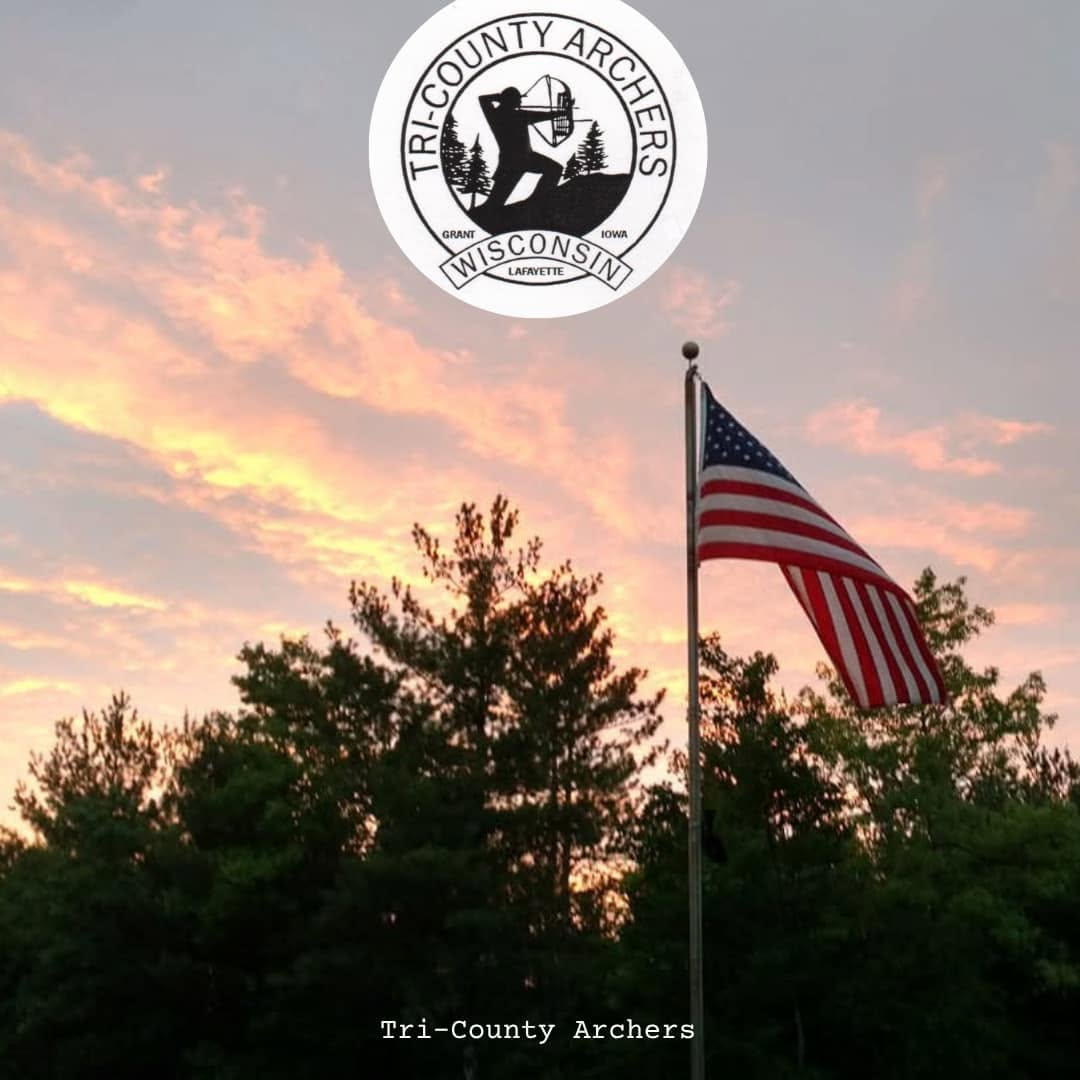
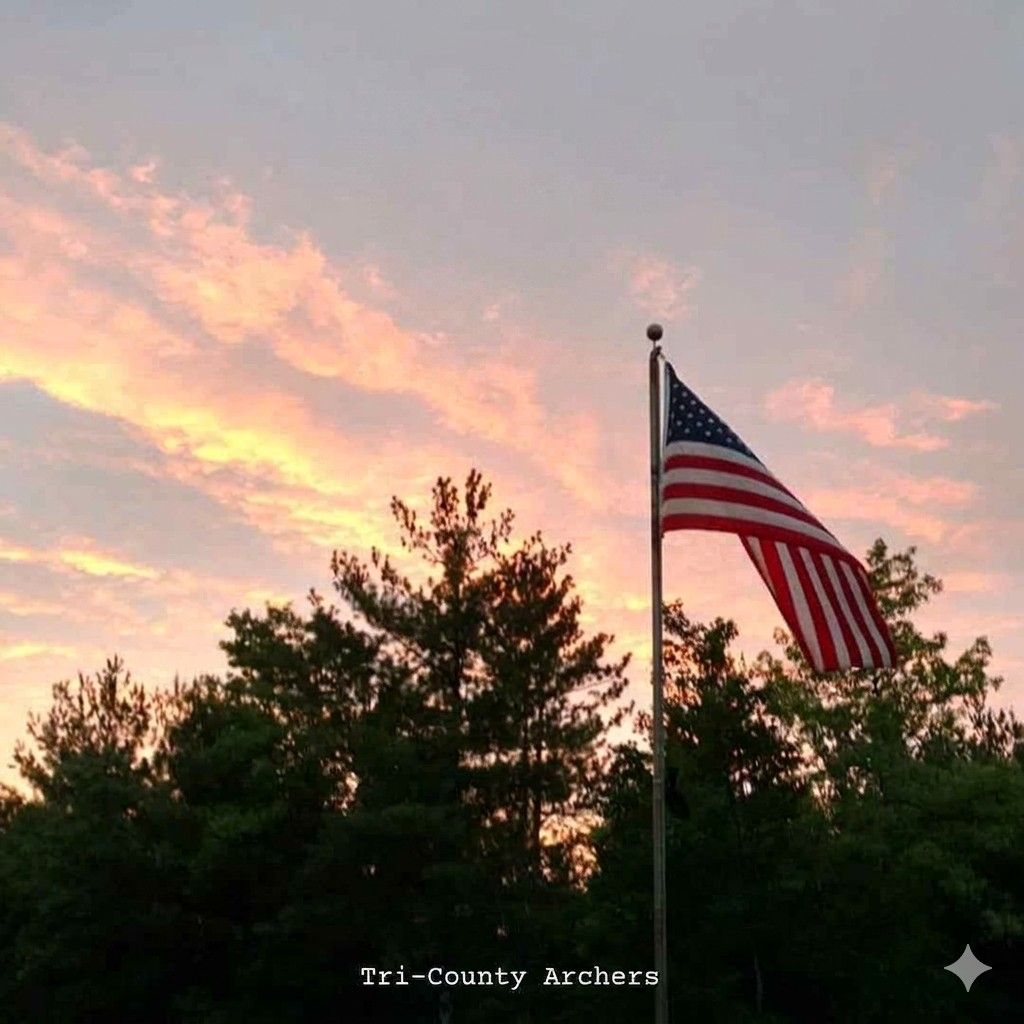
Update sponsorship drafts, contests copy, and membership dues table layout

diff --git a/sponsors.html b/sponsors.html
@@ -66,6 +66,74 @@
       banquet that fills the hall.</p>
     <div class="grid g3" id="tiers" style="margin:26px 0 34px"></div>
 
+    <!-- IDEAS (temporary working block — remove before launch) -->
+    <div style="margin:6px 0 34px; padding:20px 22px; background:#FFF8E8; border:2px dashed #C08A16; border-radius:14px">
+      <p style="margin:0 0 16px; color:#6B5111; font-size:.92rem">
+        <strong style="color:#4E3A08">Working ideas — not published yet.</strong> A scratch list of
+        sponsorship mechanisms for the board to sort through, on top of the recommended tiers above.
+        Keep, drop or rework these before any of it goes to a business.
+        <span class="tbd">internal — remove before launch</span></p>
+
+      <div class="grid g2">
+        <div class="card card-pad">
+          <h3>Placement &amp; signage</h3>
+          <ul class="tick" style="margin-bottom:0">
+            <li><strong>Sponsor a target</strong> — a sign or plaque at a specific target on the 3D
+              course carrying the sponsor's name, renewed each year</li>
+            <li><strong>Title a shoot</strong> — "Brush Shoot, presented by ___" on the banner, the
+              schedule and the posts</li>
+            <li><strong>Year-round clubhouse banner</strong> for top-tier sponsors, not just on shoot days</li>
+            <li><strong>QR code on target and course signs</strong> pointing straight to the sponsor's site</li>
+          </ul>
+        </div>
+        <div class="card card-pad">
+          <h3>Branded keepsakes</h3>
+          <p class="small muted" style="margin-top:0">Co-branded with the club logo — something people
+            keep, so the sponsor's name travels with it.</p>
+          <ul class="tick" style="margin-bottom:0">
+            <li>T-shirts</li>
+            <li>Can coozies</li>
+            <li>Branded poker chips</li>
+            <li>Challenge coins</li>
+            <li>Hats, stickers or patches as lower-cost options</li>
+          </ul>
+        </div>
+      </div>
+
+      <div class="grid g2" style="margin-top:16px">
+        <div class="card card-pad">
+          <h3>Raffle &amp; prizes</h3>
+          <ul class="tick" style="margin-bottom:0">
+            <li><strong>Donate raffle items</strong> for the banquet — the club leans on this, so make
+              it an easy, clearly recognized way in</li>
+            <li>Signage on each raffle prize crediting the business that donated it</li>
+            <li><strong>Back a contest payout or trophy</strong> — Big Buck or Fall Turkey named for the
+              sponsor</li>
+          </ul>
+        </div>
+        <div class="card card-pad">
+          <h3>Community &amp; youth</h3>
+          <ul class="tick" style="margin-bottom:0">
+            <li>Back the <strong>Grant County 4-H</strong> program or its equipment and get credited for it</li>
+            <li>Sponsor a <strong>league season</strong> — name on the standings and the league posts</li>
+          </ul>
+        </div>
+      </div>
+
+      <div class="grid g2" style="margin-top:16px">
+        <div class="card card-pad">
+          <h3>In-kind &amp; flexible</h3>
+          <ul class="tick" style="margin-bottom:0">
+            <li><strong>Count an in-kind donation toward a tier</strong> — a donated $500 bow could
+              qualify a business for Bullseye, or whatever tier the value matches</li>
+            <li>Recognize <strong>in-kind help</strong> — materials, food, printing — the same as a cash sponsor</li>
+            <li>Let sponsors <strong>pick their channel</strong> — signage, keepsakes or raffle — for the
+              same tier price</li>
+          </ul>
+        </div>
+      </div>
+    </div>
+
     <div class="grid g2">
       <div class="call call-forest">
         <h3>What sponsors get out of it</h3>

diff --git a/assets/js/data.js b/assets/js/data.js
@@ -423,18 +423,19 @@ const DUES = [
 const SPONSOR_TIERS = [
   { name:"Bullseye — $500", perks:[
       "Banner at the Brush Shoot and both outdoor 3D shoots",
-      "Raffle recognition at the annual banquet",
-      "Logo on the website homepage and sponsors page",
-      "Recognition from the podium at the banquet"
+      "Named in the shoot-result posts on Facebook, Instagram and this website",
+      "Clickable logo on the website homepage and sponsors page",
+      "Called out with the raffle at the annual banquet"
     ], guess:true },
   { name:"Gold — $250", perks:[
       "Banner at both outdoor 3D shoots",
-      "Raffle recognition at the annual banquet",
-      "Logo on the sponsors page"
+      "Named in the shoot-result posts on Facebook, Instagram and this website",
+      "Logo on the sponsors page",
+      "Raffle recognition at the annual banquet"
     ], guess:true },
   { name:"Supporting — $100", perks:[
       "Name on the sponsors page",
-      "Name listed at the banquet",
-      "Sign at the food stand"
+      "Name listed with the banquet raffle",
+      "Shout-out in a season sponsor-thanks post"
     ], guess:true }
 ];

diff --git a/contests.html b/contests.html
@@ -55,24 +55,6 @@
       than living and dying in a Facebook post.
     </div>
 
-    <div class="grid g2" style="margin-top:38px">
-      <div class="card card-pad">
-        <h3>What we still need to publish</h3>
-        <ul class="tick" style="margin-bottom:0">
-          <li>Entry deadline for each contest, and who collects the money</li>
-          <li>How Big Buck is scored &mdash; gross, net, typical vs. non-typical? <span class="tbd">needed</span></li>
-          <li>When the pot gets paid out &mdash; at the banquet, or at the end of each season? <span class="tbd">needed</span></li>
-          <li>How an entry gets registered and verified</li>
-        </ul>
-      </div>
-      <div class="card card-pad">
-        <h3>Past winners</h3>
-        <p>Winners will be listed here by year once the club has the records together &mdash; it's the
-          kind of page people come back to.</p>
-        <p class="small muted" style="margin-bottom:0">Send whatever list exists, however rough.
-          <span class="tbd">needs past winners</span></p>
-      </div>
-    </div>
   </div>
 </section>
 

diff --git a/assets/js/site.js b/assets/js/site.js
@@ -147,7 +147,6 @@
     el.innerHTML = '<div class="wrap">' + CLUB.alert.text + '</div>';
   }
 
-  /* ---------- homepage: What's Next ---------- */
   /* The league card is the one that needs thinking about: because members
      can shoot their score any day of the week, what matters is which week
      of the season we're in, not which night it is. */
@@ -469,9 +468,8 @@
     if (!el) return;
     el.innerHTML = DUES.map(function (d) {
       return '<tr>'
-        + '<td data-l="Level"><span class="ev-name">' + d.level + '</span>' + tags(d) + '</td>'
-        + '<td data-l="Dues" class="num"><strong>' + d.price + '</strong></td>'
-        + '<td data-l="Work hours" class="num">' + d.hours + '</td>'
+        + '<td data-l="Level" class="center"><span class="ev-name">' + d.level + '</span>' + tags(d) + '</td>'
+        + '<td data-l="Dues" class="center"><strong>' + d.price + '</strong></td>'
         + '<td data-l="Notes">' + d.notes + '</td>'
         + '</tr>';
     }).join('');

diff --git a/assets/css/site.css b/assets/css/site.css
@@ -247,6 +247,7 @@ table.t th{
   padding:13px 14px; font-weight:700; white-space:nowrap;
 }
 table.t td{padding:13px 14px; border-top:1px solid var(--line); vertical-align:top}
+table.t th.center, table.t td.center{text-align:center}
 table.t tbody tr:hover{background:#FBF9F5}
 table.t .ev-name{font-weight:700; color:var(--ink)}
 table.t .num{text-align:right; font-variant-numeric:tabular-nums; white-space:nowrap}
@@ -265,6 +266,7 @@ table.t tr.rank3 td:first-child::before{content:'🥉 '}
     margin-bottom:13px; padding:6px 0;
   }
   table.t.stack td{border:0; padding:6px 16px; text-align:left !important}
+  table.t.stack td.center{text-align:center !important}
   table.t.stack td::before{
     content:attr(data-l); display:block; font-size:.64rem; font-weight:700;
     letter-spacing:.14em; text-transform:uppercase; color:var(--brown-light); margin-bottom:2px;

diff --git a/index.html b/index.html
@@ -33,7 +33,7 @@
 <div id="alert"></div>
 
 <section class="hero">
-  <div class="hero-bg" style="background-image:url('assets/img/dino-3d-target.jpg')"></div>
+  <div class="hero-bg" style="background-image:url('assets/img/flag-sunset.jpg')"></div>
   <div class="hero-in">
     <div class="hero-eyebrow">Platteville, Wisconsin · Est. <span data-club="founded">1937</span></div>
     <h1>Forty targets<br>in the timber.</h1>

diff --git a/membership.html b/membership.html
@@ -60,7 +60,7 @@
       January through December.</p>
     <div class="tbl-wrap">
       <table class="t stack">
-        <thead><tr><th>Level</th><th class="num">Dues / year</th><th class="num">Work hours</th><th>Notes</th></tr></thead>
+        <thead><tr><th class="center">Level</th><th class="center">Dues / year</th><th>Notes</th></tr></thead>
         <tbody id="dues-body"></tbody>
       </table>
     </div>

diff --git a/build.py b/build.py
@@ -131,7 +131,7 @@ write("index.html", "Home",
 <div id="alert"></div>
 
 <section class="hero">
-  <div class="hero-bg" style="background-image:url('assets/img/dino-3d-target.jpg')"></div>
+  <div class="hero-bg" style="background-image:url('assets/img/flag-sunset.jpg')"></div>
   <div class="hero-in">
     <div class="hero-eyebrow">Platteville, Wisconsin · Est. <span data-club="founded">1937</span></div>
     <h1>Forty targets<br>in the timber.</h1>
@@ -553,24 +553,6 @@ phead("Member contests", "Contests",
       than living and dying in a Facebook post.
     </div>
 
-    <div class="grid g2" style="margin-top:38px">
-      <div class="card card-pad">
-        <h3>What we still need to publish</h3>
-        <ul class="tick" style="margin-bottom:0">
-          <li>Entry deadline for each contest, and who collects the money</li>
-          <li>How Big Buck is scored &mdash; gross, net, typical vs. non-typical? <span class="tbd">needed</span></li>
-          <li>When the pot gets paid out &mdash; at the banquet, or at the end of each season? <span class="tbd">needed</span></li>
-          <li>How an entry gets registered and verified</li>
-        </ul>
-      </div>
-      <div class="card card-pad">
-        <h3>Past winners</h3>
-        <p>Winners will be listed here by year once the club has the records together &mdash; it's the
-          kind of page people come back to.</p>
-        <p class="small muted" style="margin-bottom:0">Send whatever list exists, however rough.
-          <span class="tbd">needs past winners</span></p>
-      </div>
-    </div>
   </div>
 </section>
 """)
@@ -610,7 +592,7 @@ phead("Join", "Become a Member",
       January through December.</p>
     <div class="tbl-wrap">
       <table class="t stack">
-        <thead><tr><th>Level</th><th class="num">Dues / year</th><th class="num">Work hours</th><th>Notes</th></tr></thead>
+        <thead><tr><th class="center">Level</th><th class="center">Dues / year</th><th>Notes</th></tr></thead>
         <tbody id="dues-body"></tbody>
       </table>
     </div>
@@ -1072,6 +1054,74 @@ phead("Support", "Our Sponsors",
       the archers and families who come through here for three shoots a year, two leagues, and a
       banquet that fills the hall.</p>
     <div class="grid g3" id="tiers" style="margin:26px 0 34px"></div>
+
+    <!-- IDEAS (temporary working block — remove before launch) -->
+    <div style="margin:6px 0 34px; padding:20px 22px; background:#FFF8E8; border:2px dashed #C08A16; border-radius:14px">
+      <p style="margin:0 0 16px; color:#6B5111; font-size:.92rem">
+        <strong style="color:#4E3A08">Working ideas — not published yet.</strong> A scratch list of
+        sponsorship mechanisms for the board to sort through, on top of the recommended tiers above.
+        Keep, drop or rework these before any of it goes to a business.
+        <span class="tbd">internal — remove before launch</span></p>
+
+      <div class="grid g2">
+        <div class="card card-pad">
+          <h3>Placement &amp; signage</h3>
+          <ul class="tick" style="margin-bottom:0">
+            <li><strong>Sponsor a target</strong> — a sign or plaque at a specific target on the 3D
+              course carrying the sponsor's name, renewed each year</li>
+            <li><strong>Title a shoot</strong> — "Brush Shoot, presented by ___" on the banner, the
+              schedule and the posts</li>
+            <li><strong>Year-round clubhouse banner</strong> for top-tier sponsors, not just on shoot days</li>
+            <li><strong>QR code on target and course signs</strong> pointing straight to the sponsor's site</li>
+          </ul>
+        </div>
+        <div class="card card-pad">
+          <h3>Branded keepsakes</h3>
+          <p class="small muted" style="margin-top:0">Co-branded with the club logo — something people
+            keep, so the sponsor's name travels with it.</p>
+          <ul class="tick" style="margin-bottom:0">
+            <li>T-shirts</li>
+            <li>Can coozies</li>
+            <li>Branded poker chips</li>
+            <li>Challenge coins</li>
+            <li>Hats, stickers or patches as lower-cost options</li>
+          </ul>
+        </div>
+      </div>
+
+      <div class="grid g2" style="margin-top:16px">
+        <div class="card card-pad">
+          <h3>Raffle &amp; prizes</h3>
+          <ul class="tick" style="margin-bottom:0">
+            <li><strong>Donate raffle items</strong> for the banquet — the club leans on this, so make
+              it an easy, clearly recognized way in</li>
+            <li>Signage on each raffle prize crediting the business that donated it</li>
+            <li><strong>Back a contest payout or trophy</strong> — Big Buck or Fall Turkey named for the
+              sponsor</li>
+          </ul>
+        </div>
+        <div class="card card-pad">
+          <h3>Community &amp; youth</h3>
+          <ul class="tick" style="margin-bottom:0">
+            <li>Back the <strong>Grant County 4-H</strong> program or its equipment and get credited for it</li>
+            <li>Sponsor a <strong>league season</strong> — name on the standings and the league posts</li>
+          </ul>
+        </div>
+      </div>
+
+      <div class="grid g2" style="margin-top:16px">
+        <div class="card card-pad">
+          <h3>In-kind &amp; flexible</h3>
+          <ul class="tick" style="margin-bottom:0">
+            <li><strong>Count an in-kind donation toward a tier</strong> — a donated $500 bow could
+              qualify a business for Bullseye, or whatever tier the value matches</li>
+            <li>Recognize <strong>in-kind help</strong> — materials, food, printing — the same as a cash sponsor</li>
+            <li>Let sponsors <strong>pick their channel</strong> — signage, keepsakes or raffle — for the
+              same tier price</li>
+          </ul>
+        </div>
+      </div>
+    </div>
 
     <div class="grid g2">
       <div class="call call-forest">
